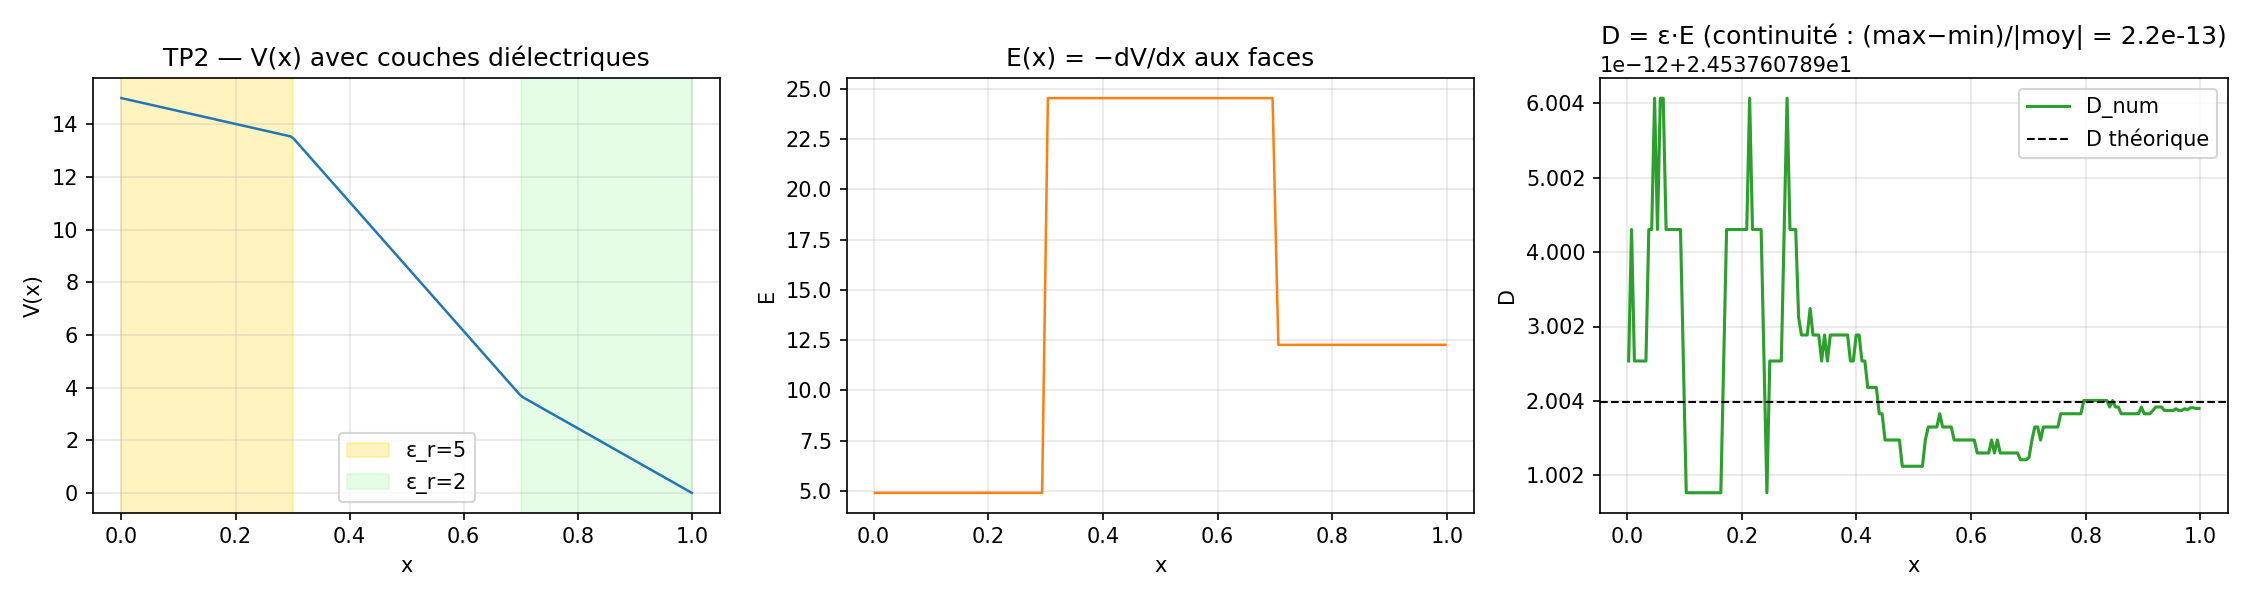
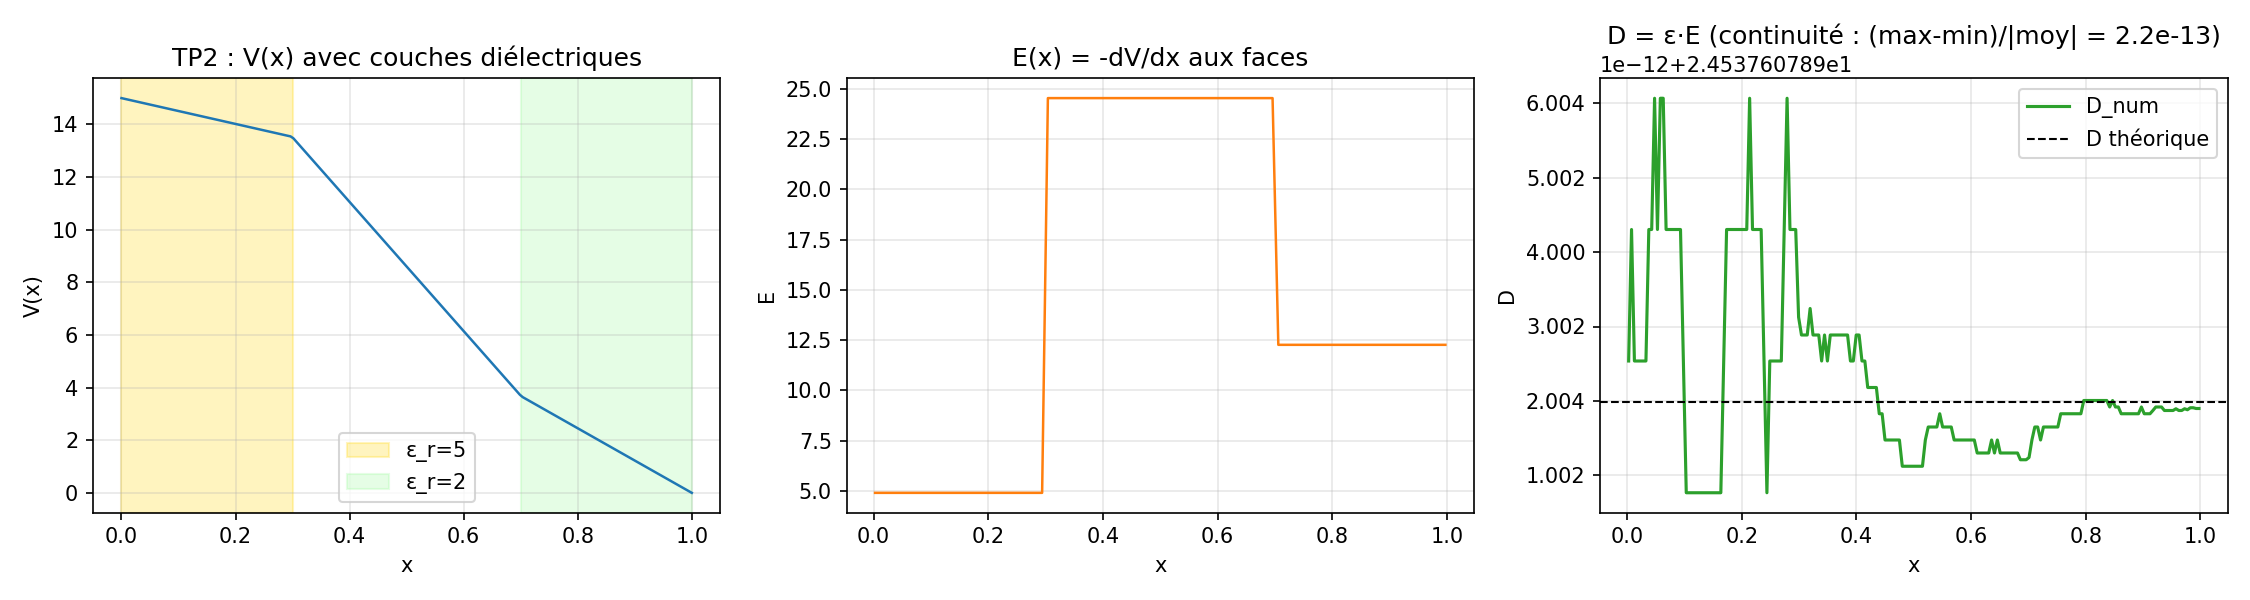
tp5: use AMR bindings instead of JSON snapshot, regenerate figures
- plot_tp_style.py:tp5 builds the quadtree directly via pc.Quadtree +
  pc.amr_sor (mirrors the bindings rewrite done for tp2). No more
  CLI/JSON detour; the script + the docs example now use the same code
  path.
- Final em-dash sweep across plot_tp_style.py titles and comments.
- Renumber the TP5 step sequence in examples.md (writeback was '5.', now '6.').

Changed region(s): [[0.7156, 0.03, 0.9956, 0.09], [0.0622, 0.06, 0.3111, 0.12], [0.4356, 0.06, 0.5911, 0.12]]

diff --git a/python/plot_tp_style.py b/python/plot_tp_style.py
@@ -52,7 +52,7 @@ FIG_DIR.mkdir(parents=True, exist_ok=True)
 
 
 # ---------------------------------------------------------------------------
-# TP1 — 1D Poisson with Dirichlet BCs.
+# TP1 : 1D Poisson with Dirichlet BCs.
 #
 # Reference problem: zero source, uL ≠ uR. Analytical V(x) is a linear ramp.
 # Validates the FV stencil + Thomas solver at machine precision.
@@ -78,7 +78,7 @@ def tp1() -> None:
     # Cross-check: our Thomas vs scipy's banded solver on the SAME system.
     # If both produce V to within a few ULP of each other, the discrepancy
     # with the analytical ramp is pure round-off accumulation in a direct
-    # tridiagonal solve — not a scheme bug.
+    # tridiagonal solve : not a scheme bug.
     try:
         from scipy.linalg import solve_banded
         # Build the same tridiag system as Solver1D for rho = 0:
@@ -111,7 +111,7 @@ def tp1() -> None:
     axes[0].plot(x, V, "o", ms=3, label="numérique (FV + Thomas)")
     axes[0].plot(x, V_theo, "k--", lw=1, label="analytique")
     axes[0].set(xlabel="x", ylabel="V(x)",
-                title=f"TP1 — Poisson 1D (ρ=0, N={N})")
+                title=f"TP1 : Poisson 1D (ρ=0, N={N})")
     axes[0].legend()
     axes[0].grid(alpha=0.3)
 
@@ -138,7 +138,7 @@ def tp1() -> None:
 
 
 # ---------------------------------------------------------------------------
-# TP3 — 2D SOR red-black.
+# TP3 : 2D SOR red-black.
 #
 # Reference problem: uL ≠ uR, zero source, Neumann in y → V must be
 # a linear ramp in x, independent of y. Plot heatmap + mid-line slice +
@@ -186,7 +186,7 @@ def tp3() -> None:
 
     fig, axes = plt.subplots(1, 3, figsize=(15, 4))
     im = axes[0].pcolormesh(X, Y, V, shading="auto", cmap="viridis")
-    axes[0].set(title="V(x, y) — FV SOR red-black", xlabel="x", ylabel="y",
+    axes[0].set(title="V(x, y) : FV SOR red-black", xlabel="x", ylabel="y",
                 aspect="equal")
     fig.colorbar(im, ax=axes[0])
 
@@ -207,7 +207,7 @@ def tp3() -> None:
 
 
 # ---------------------------------------------------------------------------
-# TP4 — Spectral DST convergence study.
+# TP4 : Spectral DST convergence study.
 #
 # Manufactured solution: V = sin(πx/Lx)·sin(πy/Ly) => ρ = 2(π/L)² V.
 # Plot error vs h in log-log, expecting slope -2 (O(h²)).
@@ -260,7 +260,7 @@ def tp4() -> None:
     ax.axhline(np.finfo(float).eps * 4, color="gray", ls=":", lw=1,
                label=r"$\approx 4\,\varepsilon_\mathrm{mach}$")
     ax.set(xlabel="h", ylabel=r"$\|V_\mathrm{num} - V_\mathrm{ref}\|_\infty$",
-           title="TP4 — Erreur DST2D vs référence continue / discrète")
+           title="TP4 : Erreur DST2D vs référence continue / discrète")
     ax.grid(alpha=0.3, which="both")
     ax.legend()
     out = FIG_DIR / "tp4_spectral_convergence.png"
@@ -271,33 +271,47 @@ def tp4() -> None:
 
 
 # ---------------------------------------------------------------------------
-# TP5 — AMR quadtree + heterogeneous FV.
+# TP5 : AMR quadtree + heterogeneous FV.
 #
-# Loads a JSON snapshot written by `poisson_demo --problem amr --output ...`.
-# Draws the leaf mesh (Rectangle patches, no fill) and V color-coded.
+# Builds the quadtree directly via the pybind bindings, runs amr_sor,
+# then draws the leaf mesh + V color-coded.
 # ---------------------------------------------------------------------------
 
 def tp5() -> None:
-    # Ensure we have a snapshot; generate one if missing.
-    snap = Path(__file__).resolve().parent.parent / "data" / "snapshots" / "amr.json"
-    if not snap.exists():
-        print(f"[tp5] snapshot missing at {snap}")
-        print("[tp5] run: ./build/examples/poisson_demo --problem amr "
-              f"--Nmin 3 --Nmax 6 --sigma 0.04 --output {snap}")
-        return
+    if not HAVE_PC:
+        raise RuntimeError("Build the pybind module: -DPOISSON_BUILD_PYTHON=ON")
 
-    with open(snap) as f:
-        data = json.load(f)
-    cells = data["cells"]
-    sigma = data["sigma"]
+    L, sigma = 1.0, 0.04
+    level_min, level_max = 3, 6
 
-    xs = np.array([c["x"] for c in cells])
-    ys = np.array([c["y"] for c in cells])
-    hs = np.array([c["h"] for c in cells])
-    Vs = np.array([c["V"] for c in cells])
-    rhos = np.array([c["rho"] for c in cells])
-    levels = np.array([c["level"] for c in cells])
+    def predicate(key):
+        lvl = pc.level_of(key)
+        if lvl >= level_max:
+            return False
+        h = L / (1 << lvl)
+        cx = (pc.i_of(key) + 0.5) * h
+        cy = (pc.j_of(key) + 0.5) * h
+        return ((cx - 0.5) ** 2 + (cy - 0.5) ** 2) < (4 * sigma) ** 2
+
+    def rho_func(x, y):
+        r2 = (x - 0.5) ** 2 + (y - 0.5) ** 2
+        return math.exp(-r2 / (sigma * sigma))
+
+    tree = pc.Quadtree(L, level_min=level_min)
+    tree.build(predicate, level_max=level_max, rho_func=rho_func)
+    arr = pc.extract_arrays(tree)
+    pc.amr_sor(arr, omega=1.85, tol=1e-7, max_iter=20_000)
+
+    # Per-leaf geometry (cell center + size) for plotting and stats.
+    keys = arr.keys
+    levels = np.array([pc.level_of(k) for k in keys])
+    hs = np.array([L / (1 << lv) for lv in levels])
+    xs = np.array([(pc.i_of(k) + 0.5) * h for k, h in zip(keys, hs)])
+    ys = np.array([(pc.j_of(k) + 0.5) * h for k, h in zip(keys, hs)])
+    Vs = np.array(arr.V)
+    rhos = np.array(arr.rho)
     areas = hs ** 2
+    cells = keys  # for the message at the end
 
     # --- Physical coherence checks -----------------------------------------
     # 1. Total integrated charge vs theoretical (Gaussian exp(-r²/σ²)).
@@ -332,7 +346,7 @@ def tp5() -> None:
     pc_ = PatchCollection(rects, facecolor="none", edgecolor="k", linewidth=0.4)
     ax.add_collection(pc_)
     ax.set(xlim=(0, 1), ylim=(0, 1), aspect="equal",
-           title=f"Maillage AMR — {len(cells)} feuilles",
+           title=f"Maillage AMR :{len(cells)} feuilles",
            xlabel="x", ylabel="y")
 
     # Right: V colored.
@@ -367,7 +381,7 @@ def tp5() -> None:
 
 
 # ---------------------------------------------------------------------------
-# TP2 — 1D Poisson with a layered dielectric.
+# TP2 : 1D Poisson with a layered dielectric.
 #
 # No free charge (ρ = 0), so ∇·D = 0  ⇒  D = ε·E is constant across the
 # whole domain, including through interfaces between layers. The potential

diff --git a/docs/sphinx/examples.md b/docs/sphinx/examples.md
@@ -291,7 +291,7 @@ center_key = pc.make_key(8, 1 << 7, 1 << 7)
 if tree.is_leaf(center_key):
     print("V au centre :", tree.at(center_key).V)
 
-# 5. Visualisation : V color-coded + bord des feuilles
+# 6. Visualisation : V color-coded + bord des feuilles
 fig, ax = plt.subplots(figsize=(6, 6))
 patches, colors = [], []
 for key, V in zip(arr.keys, arr.V):
